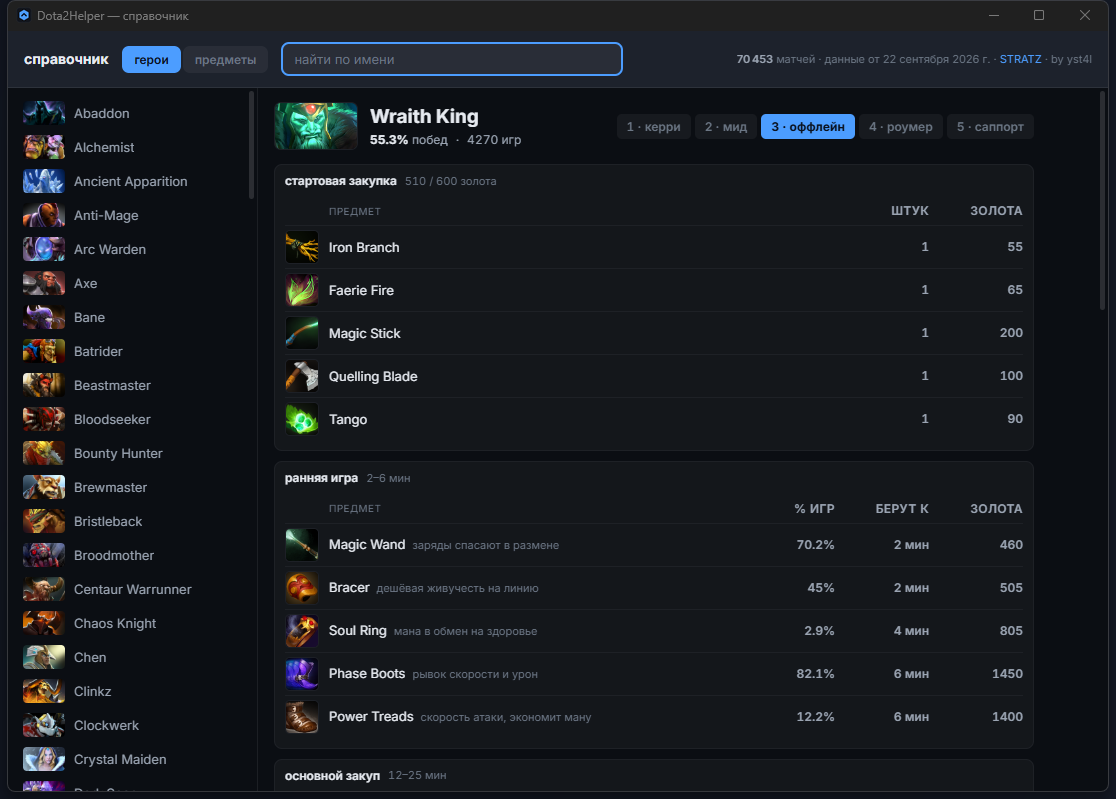
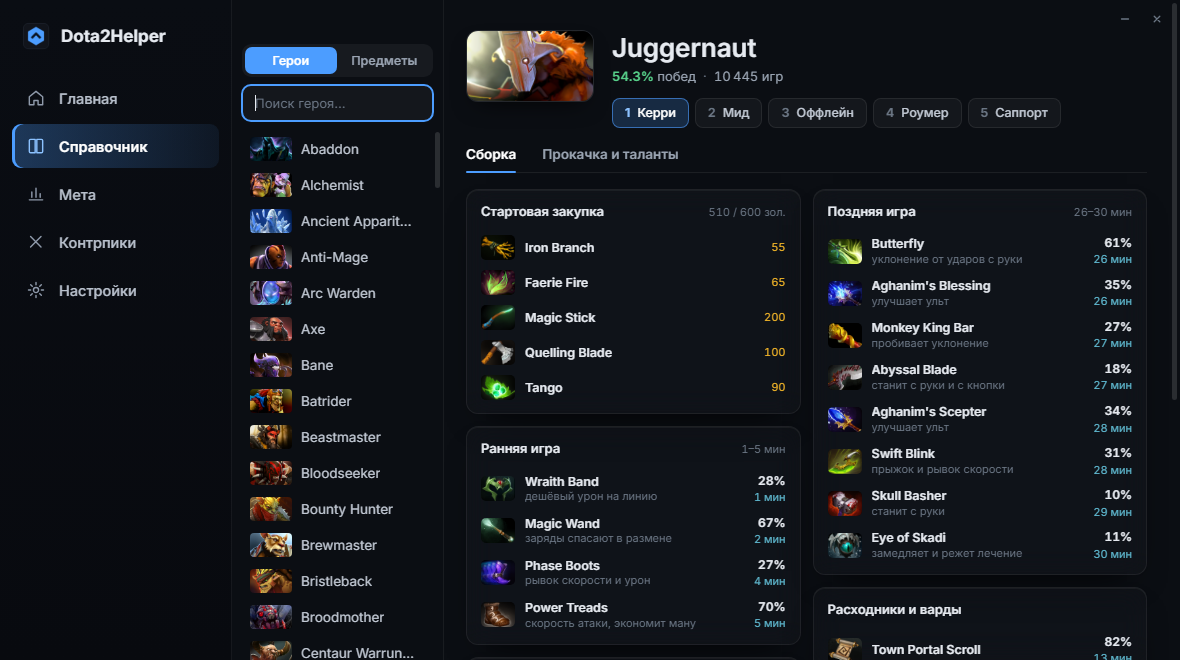
README и скриншоты под новый интерфейс
Снимки главного окна, справочника, контрпиков, настроек и широкой
панели вместо старых; про сборки в магазине Доты и какие файлы игры
программа трогает; свежие цифры данных.

diff --git a/README.md b/README.md
@@ -2,13 +2,13 @@
 
 # Dota2Helper
 
-**Подсказка по сборке прямо в игре — не чьё-то мнение, а 70 тысяч разобранных матчей.**
+**Подсказка по сборке прямо в игре — не чьё-то мнение, а 75 тысяч разобранных матчей.**
 
 Панель поверх Доты показывает, что брать следующим на твоём герое, к какой минуте это обычно собирают и что из этого меняется из-за вражеского пика. Появляется сама на драфте, прячется после матча.
 
 ![Панель поверх игры](docs/panel.png)
 
-<sub>Патч 7.41f · 70 453 матча · Windows · без чтения памяти игры</sub>
+<sub>Патч 7.41f · 75 133 матча · Windows · без чтения памяти игры</sub>
 
 </div>
 
@@ -26,6 +26,8 @@
 
 **Стартовую закупку под твоё золото.** Не «типичный набор», а самый частый целый набор, который влезает в то золото, что у тебя на руках прямо сейчас.
 
+**Сборку прямо в магазине Доты.** Одной кнопкой в настройках программа кладёт свою сборку на каждого героя в «Стандартные предметы» магазина: старт, ранняя игра, кор, поздняя игра — по самой частой роли героя — и выбирает её у всех героев. Покупать можно, не отрываясь от магазина. Под пик сборка в магазине не подстраивается: Дота читает её один раз, в момент пика, и понимает только предметы. Поэтому ситуативное против пика, прокачка и таланты остаются на панели. Прежние сборки и выбор руководств сохраняются и возвращаются кнопкой «Вернуть прежние».
+
 ## Как это считается
 
 Обычный совет в гайде — это чьё-то мнение. Здесь за каждой цифрой лежат разобранные матчи, и правила счёта выбраны так, чтобы не врать:
@@ -40,8 +42,12 @@
 
 <table>
 <tr>
-<td width="50%"><img src="docs/menu.png" alt="Главное окно"><br><sub><b>Главное окно.</b> Само проверяет, готова ли Дота отдавать данные, и ставит конфиг кнопкой.</sub></td>
+<td width="50%"><img src="docs/menu.png" alt="Главное окно"><br><sub><b>Главное окно.</b> Идущий матч, мета на твоей позиции и данные, на которых всё посчитано.</sub></td>
 <td width="50%"><img src="docs/browse.png" alt="Справочник"><br><sub><b>Справочник.</b> Любой герой и любая позиция вне матча: что, когда и в скольких играх.</sub></td>
+</tr>
+<tr>
+<td width="50%"><img src="docs/counters.png" alt="Контрпики"><br><sub><b>Контрпики.</b> Против кого герою тяжело и легко — и что в этих матчах берут чаще.</sub></td>
+<td width="50%"><img src="docs/settings.png" alt="Настройки"><br><sub><b>Настройки.</b> Подключение к Доте проверяется само; конфиг и сборки в магазине ставятся кнопкой.</sub></td>
 </tr>
 </table>
 
@@ -70,14 +76,19 @@ start.bat
 
 Игра отдаёт состояние матча сама — этот механизм Valve сделала как раз для таких программ. Нужны две вещи, и приложение проверяет обе само, а первую умеет поставить кнопкой:
 
-1. конфиг в папке игры — кнопка **«установить конфиг»** в главном окне;
+1. конфиг в папке игры — кнопка **«установить конфиг»** в главном окне или **«Поставить конфиг»** в настройках;
 2. параметр запуска `-gamestateintegration` — Steam → библиотека → Dota 2 → правая кнопка → Свойства → Параметры запуска.
 
 Пока чего-то не хватает, в главном окне висит карточка с тем, что именно не так. Как только игра пришлёт первый пакет, карточка исчезает.
 
 ### Про безопасность
 
-Dota2Helper **не читает память игры, не внедряется в процесс и не автоматизирует действия**. Всё, что он знает о матче, игра присылает сама через Game State Integration — официальный механизм Valve. Единственное, что программа пишет в папку игры, — тот самый конфиг GSI, который для этого и предназначен.
+Dota2Helper **не читает память игры, не внедряется в процесс и не автоматизирует действия**. Всё, что он знает о матче, игра присылает сама через Game State Integration — официальный механизм Valve.
+
+Файлы Доты программа трогает только по кнопке и только такие, которые игра и так даёт менять:
+
+- конфиг GSI в `game\dota\cfg\gamestate_integration` — для этого он и предназначен;
+- если попросить сборки в магазине — файлы `game\dota\itembuilds\default_<герой>.txt` (тот же формат, что пишут другие программы-сборщики) и выбор руководства у героев в `userdata\<учётка>\570\remote\cfg\herobuilds.cfg`, только при закрытой Доте. Прежние файлы сохраняются и возвращаются кнопкой.
 
 ### Обновления
 
@@ -95,9 +106,11 @@ Dota2Helper **не читает память игры, не внедряется
 | `Ctrl` + `Alt` + `D` | компактный режим: только «что брать дальше» |
 | `Ctrl` + `Alt` + `F` | пропускать клики в игру (панель перестаёт ловить мышь) |
 
+Сочетания меняются в настройках.
+
 Когда клики уходят в игру, над панелью появляется отдельная кнопка возврата: выключатель режима не может жить внутри того, что он выключает.
 
-В настройках — прозрачность, размер, показывать ли панель только в матче и девять галочек «что показывать»: лишние блоки можно просто убрать.
+Панель бывает широкой — в две колонки, вдвое ниже — и узкой. В настройках — вид, монитор, прозрачность, размер, показывать ли панель только в матче и галочки «что показывать»: лишние блоки можно просто убрать.
 
 ## Как устроено
 
@@ -107,7 +120,7 @@ Dota 2  ──GSI──▶  приёмник  ──▶  трекер матча
                                  и что куплено      в памяти      внутри Qt)
 ```
 
-Вся статистика лежит в одном файле `snapshot.json.gz` — **1.4 МБ**, который целиком держится в памяти. Во время матча программа не ходит ни в сеть, ни в базу: совет считается за миллисекунду.
+Вся статистика лежит в одном файле `snapshot.json.gz` — **1.6 МБ**, который целиком держится в памяти. Во время матча программа не ходит ни в сеть, ни в базу: совет считается за миллисекунду.
 
 База сырых матчей (около 2 ГБ) — серверная, к игроку она не едет никогда. Её место — на машине, где собираются данные.
 
